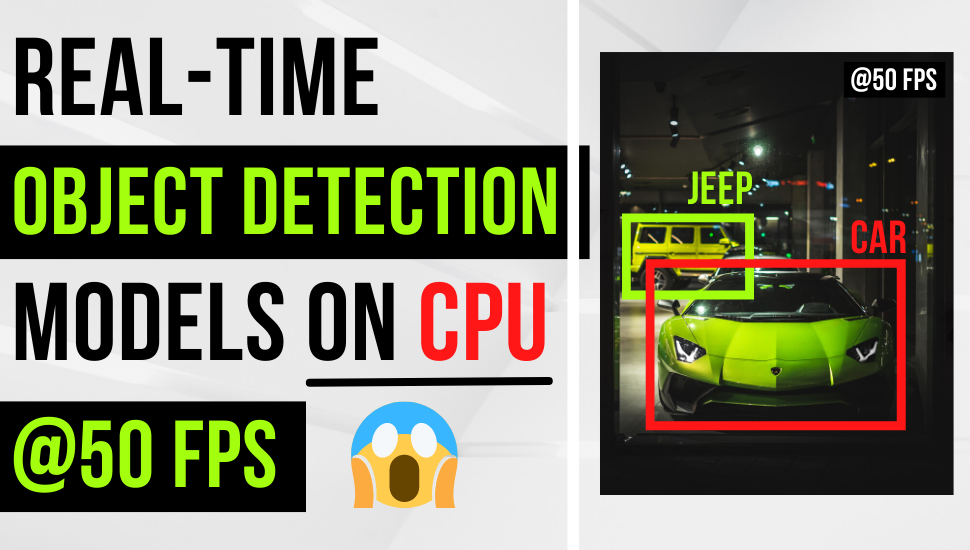
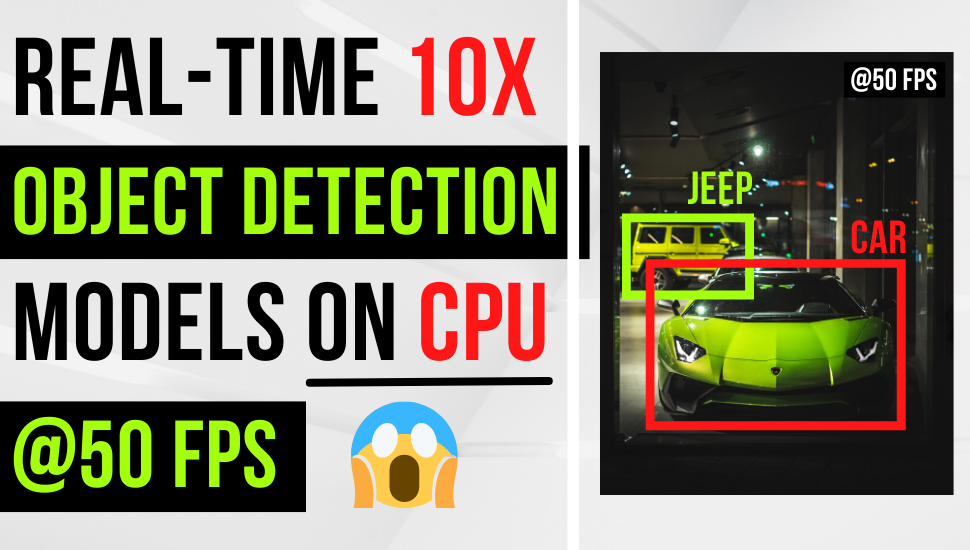
update post img

Changed region(s): [[0.433, 0.0618, 0.5567, 0.2164]]

diff --git a/content/portfolio/how_to_deploy_od_model_on_cpu_at_60_fps/index.md b/content/portfolio/how_to_deploy_od_model_on_cpu_at_60_fps/index.md
@@ -1,9 +1,9 @@
 ---
 title: "How to 10x your Object Detection Model and Deploy on CPU at 50+ FPS"
-date: 2022-04-29T15:00:15+08:00
+date: 2022-04-30T15:00:15+08:00
 featureImage: images/portfolio/how_to_deploy_od_model_on_cpu_at_60_fps/thumbnail.gif
 postImage: images/portfolio/how_to_deploy_od_model_on_cpu_at_60_fps/post_image.png
-tags: ["OpenVINO", "YOLOX", "ONNX", "CVAT"]
+tags: ["OpenVINO", "YOLOX", "ONNX", "CVAT", "real-time", "optimization", "license-plate"]
 categories: ["deployment", "object-detection"]
 toc: true
 socialshare: true
@@ -25,7 +25,7 @@ By the end of this post, you will learn how to:
 {{< /notice >}}
 
 
-Deep learning (DL), they seem to be the magic word that makes anything cool. 
+Deep learning (DL), they seem to be the magic word that makes anything mundane cool again. 
 We find them everywhere - in blog posts, articles, research papers, advertisements and even [baby books](https://www.amazon.com/Neural-Networks-Babies-Baby-University/dp/1492671207). 
 
 Except in production 🤷♂.
@@ -34,10 +34,11 @@ As much as we were made to believe DL is the answer to our problems, more than 8
 
 The barrier? *Deployment*.
 
-In object detection, we typically train models on massive GPUs either locally or in the cloud.
-But when it comes to deployment, running them on GPUs is often impractical.
+For some applications such as self-driving car, real-time deployment is critical and has huge implications.
 
-On the other hand, CPUs are far more common in deployment, and a lot cheaper. 
+As data scientists, even though we can easily train our models on GPUs, it is uncommon and sometimes impractical to deploy them on GPUs in production.
+On the other hand, CPUs are far more common in production environment, and a lot cheaper.
+
 But can we feasibly deploy real-time DL models on a CPU?
 Running DL models on a CPU is orders of magnitude slower compared to GPU, right?
 
@@ -51,7 +52,7 @@ In this post, I will walk you through how we go from this 🐌🐌🐌
 to this 🚀🚀🚀
 {{< video src="int8.mp4" width="700px" loop="true" autoplay="true">}}
 
-Yes, you saw that right, this model runs on a CPU 😱.
+Yes, that's right, this model runs on a **CPU at 50+ FPS** 😱.
 If that looks interesting, let's dive in 👇.
 
 
@@ -62,7 +63,7 @@ We will use a state-of-the-art [YOLOX](https://github.com/Megvii-BaseDetection/Y
 YOLOX is one of the most recent YOLO series model that is both lightweight and accurate.
 
 It claims better performance than [YOLOv4](https://github.com/Tianxiaomo/pytorch-YOLOv4), [YOLOv5](https://github.com/ultralytics/yolov5), and [EfficientDet](https://github.com/zylo117/Yet-Another-EfficientDet-Pytorch) models.
-Additionally, YOLOX is a anchorless one-stage detector which makes it faster that its counterparts.
+Additionally, YOLOX is an anchor free one-stage detector which makes it faster that its counterparts.
 
 Before we start training, let's collect images of the license plate and annotate them.
 I collected about 40 images in total. 
@@ -342,8 +343,11 @@ In this post you've learned how to:
 + 10x the inference speed of the model with 8-bit quantization.
 {{< /notice >}}
 
-What's next? You can experiment with using other YOLOX models and see if you can squeeze more using the techniques covered in this post.
-You can also try the `AccuracyAwareQuantization` which runs quantization on the model with lesser accuracy loss on the model.
+So, what's next? To squeeze even more out the model I recommend:
++ Experiment with smaller YOLOX models like YOLOX-Nano or YOLOX-Tiny.
++ Try using smaller input resolution such as 416x416. We've used 640x640 in this post.
++ Try using the `AccuracyAwareQuantization` which runs quantization on the model with lesser accuracy loss on the model.
+
 There also a best practice guide to quantizing your model with OpenVINO [here](https://docs.openvino.ai/latest/pot_docs_BestPractices.html).
 
 ### 🙏 Comments & Feedback
